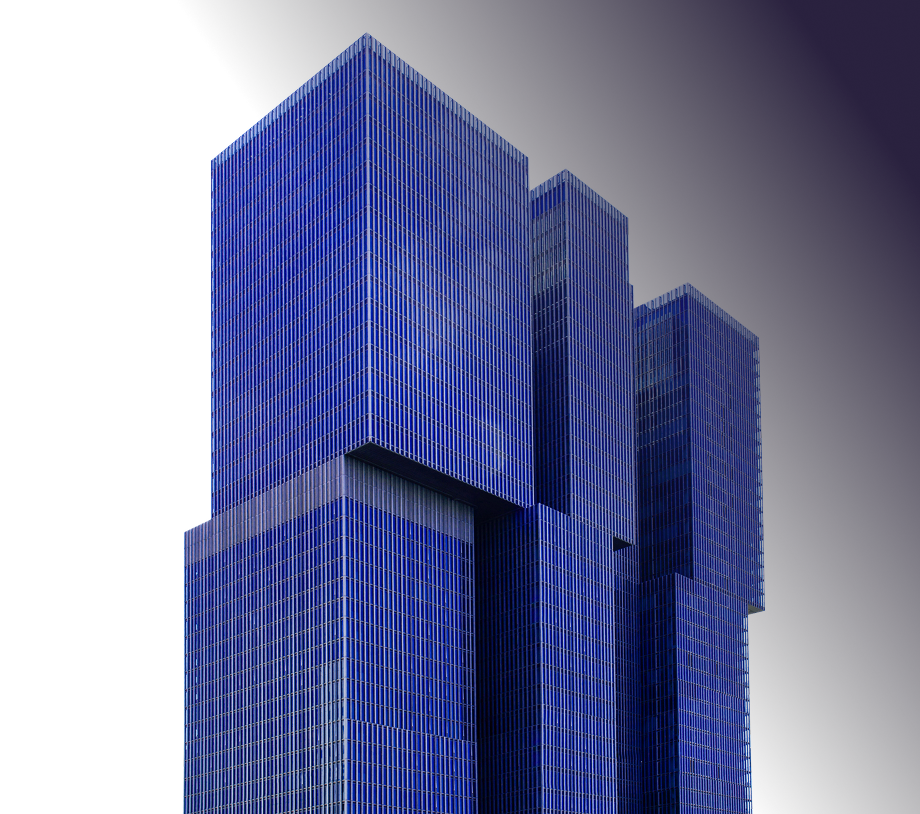
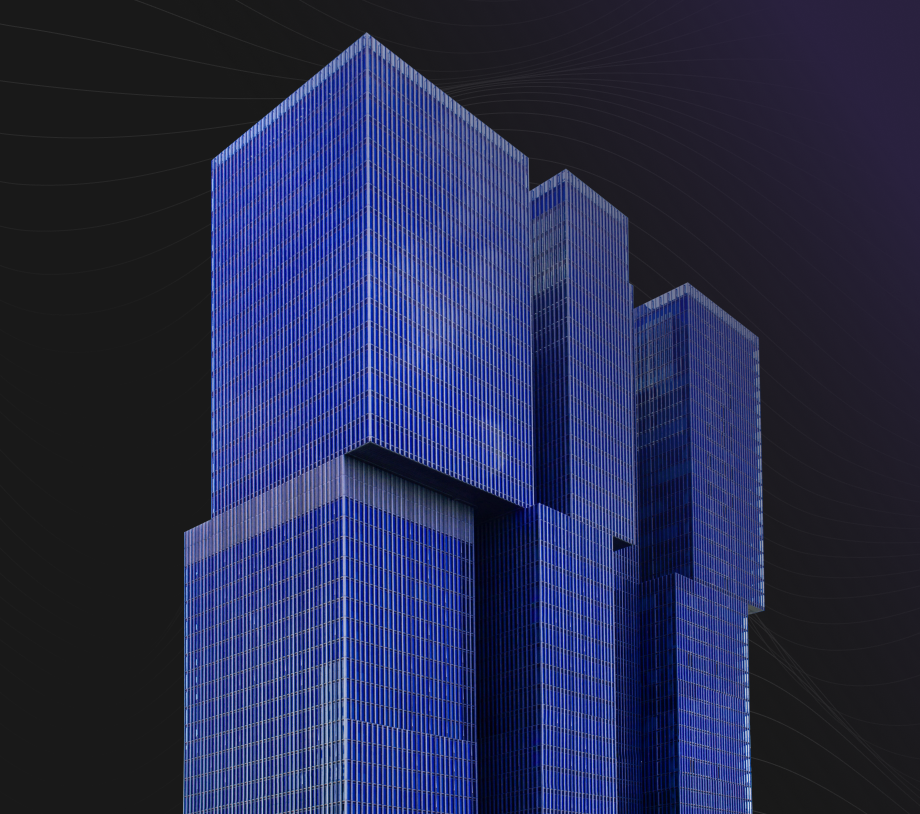
add hero section

diff --git a/src/components/Hero/index.tsx b/src/components/Hero/index.tsx
@@ -1,0 +1,79 @@
+import LinkArrow from "../icons/LinkArrow";
+
+const CARDS = [
+  {
+    value: "200+",
+    label: "Happy Customers",
+  },
+  {
+    value: "10k+",
+    label: "Properties For Clients",
+  },
+  {
+    value: "16+",
+    label: "Years of Experience",
+  },
+]
+
+const Hero = () => {
+  return (
+    <section className="w-full mx-auto flex justify-center gap-20 mt-16">
+      {/* left */}
+      <div className="flex-1 w-full py-36 pl-[162px] max-w-[920px]">
+        <div className="relative">
+          <h1 className="text-[60px] font-semibold leading-[120%] mb-6">Discover Your Dream Property with Estatein</h1>
+          <p className="text-lg font-medium leading-[150%] text-gray-2">Your journey to finding the perfect property begins here. Explore our listings to find the home that matches your dreams.</p>
+
+          {/* curved text */}
+
+          <div className="absolute top-0 right-[-22%]">
+            <div className="max-w-max border border-stroke rounded-full p-4 relative bg-background">
+              <svg viewBox="0 0 100 100" width="175" height="175" className="animate-spin [animation-duration:10s]">
+                <defs>
+                  <path id="circle"
+                    d="
+                      M 50, 50
+                      m -37, 0
+                      a 37,37 0 1,1 74,0
+                      a 37,37 0 1,1 -74,0"/>
+                </defs>
+                <text fontSize="11">
+                  <textPath href="#circle" className="fill-white" letterSpacing={2}>
+                    Discover your dream property✨
+                  </textPath>
+                </text>
+              </svg>
+            </div>
+
+            {/* inner circle */}
+            <div className="absolute top-1/2 left-1/2 -translate-x-1/2 -translate-y-1/2 w-20 h-20 flex items-center justify-center border border-stroke rounded-full bg-gray-1">
+              <LinkArrow/>
+            </div>
+          </div>
+
+          <div className="flex items-center gap-5 my-[60px]">
+            <button className="px-6 py-[18px] border border-stroke rounded-[10px]">Learn More</button>
+            <button className="px-6 py-[18px] border border-stroke bg-primary rounded-[10px]">Browse Properties</button>
+          </div>
+
+          <div className="flex gap-5 leading-[150%]">
+            {CARDS.map((card) => (
+              <div key={card.value} className="px-6 py-4 rounded-xl border border-stroke bg-gray-1 flex-1">
+                <div className="text-[40px] font-bold leading-[150%]">{card.value}</div>
+                <h3 className="text-gray-2 text-lg font-medium">{card.label}</h3>
+              </div>
+            ))}
+          </div>
+        </div>
+      </div>
+
+      {/* right */}
+      <div className="flex-1 bg-gray-700 w-full  h-full">
+        <figure className="w-full h-full">
+          <img className="object-cover w-full h-full" src="/images/hero.png" alt="Buildings image" />
+        </figure>
+      </div>
+    </section>
+  )
+};
+export default Hero
